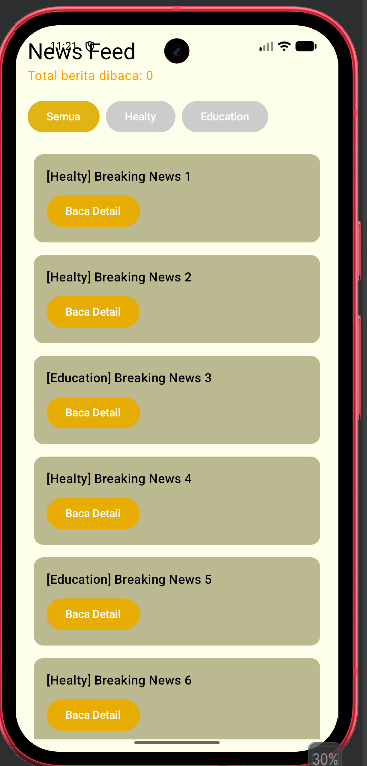
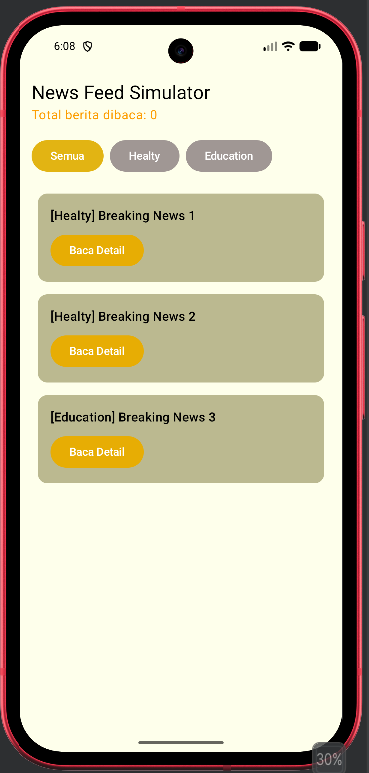
update gambar

diff --git a/shared/src/commonMain/kotlin/com/example/tugas_2_pam_124140073/App.kt b/shared/src/commonMain/kotlin/com/example/tugas_2_pam_124140073/App.kt
@@ -34,8 +34,8 @@ fun App() {
         ) {
 
             Text(
-                text = "News Feed",
-                style = MaterialTheme.typography.headlineMedium
+                text = "News Feed Simulator",
+                style = MaterialTheme.typography.headlineSmall
             )
 
             Text(
